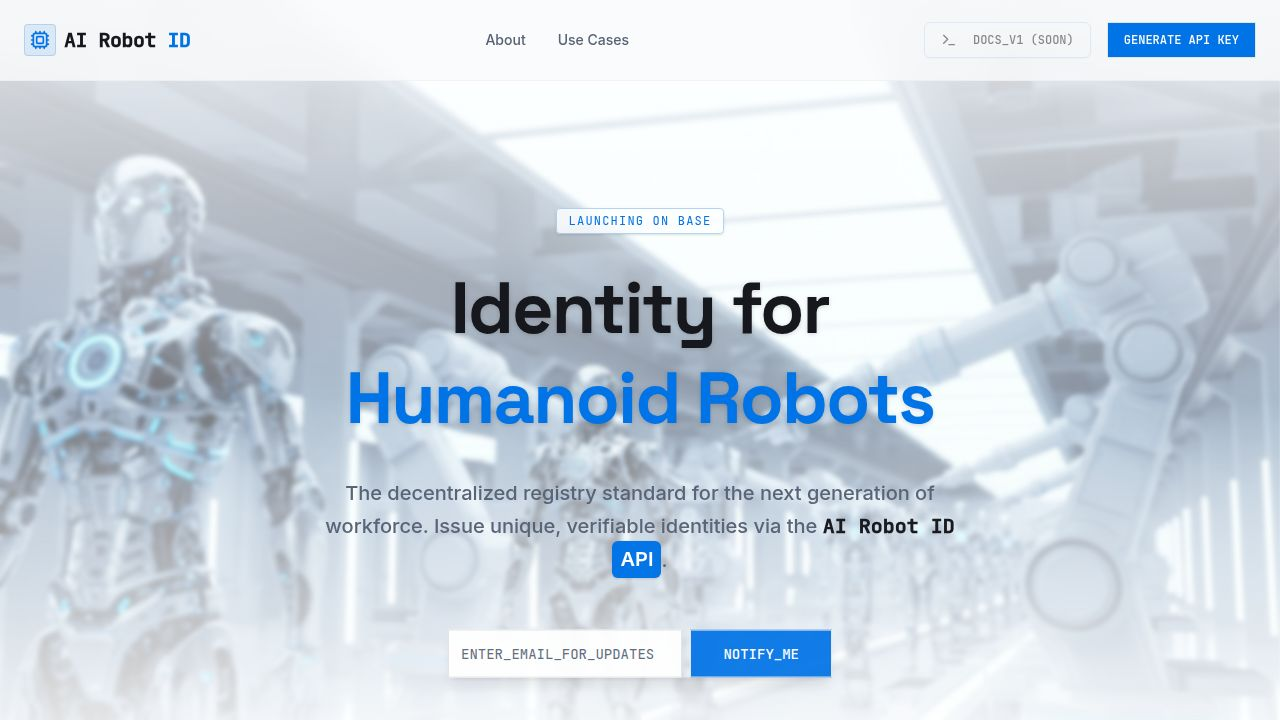
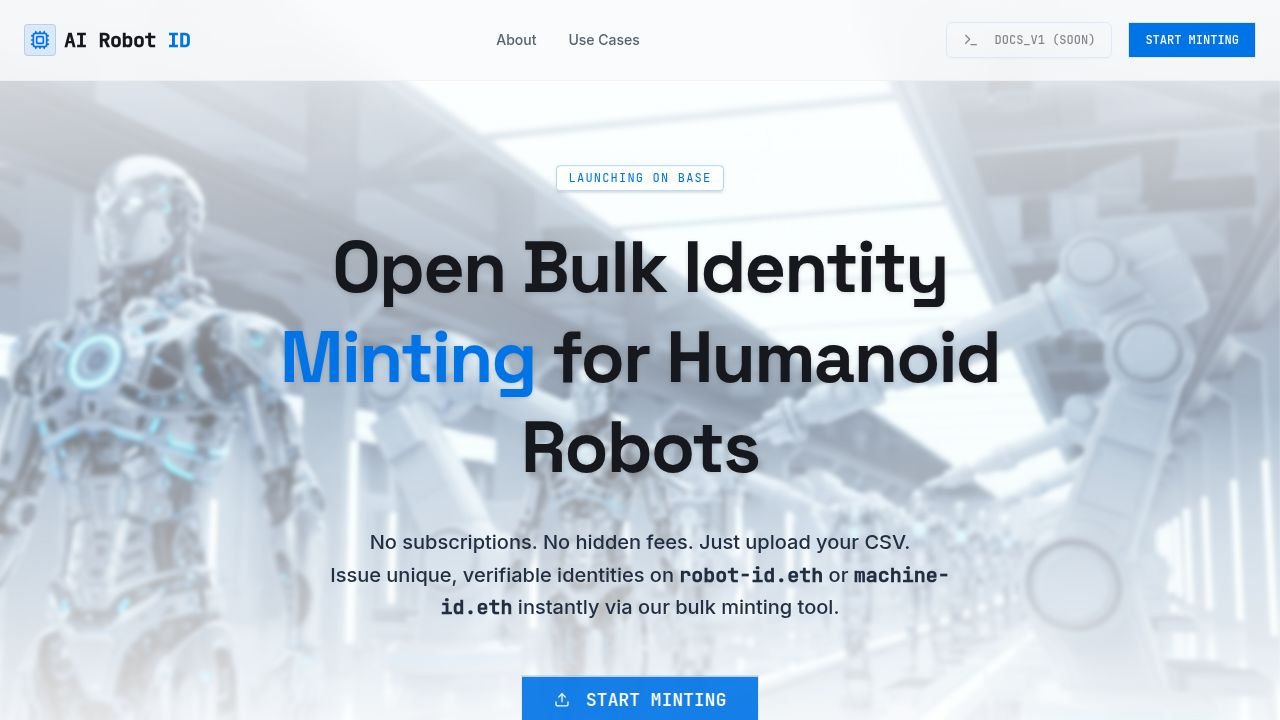
Published your App
Replit-Commit-Author: Deployment
Replit-Commit-Session-Id: 85a674c6-3517-4780-aa80-2c445b0ae4fa
Replit-Commit-Checkpoint-Type: full_checkpoint
Replit-Commit-Event-Id: 91f0d460-d7e7-4d9c-b1e6-afb42154166d
Replit-Commit-Screenshot-Url: https://storage.googleapis.com/screenshot-production-us-central1/c4c9e3a7-0379-40d7-9a9a-784080d9a74f/85a674c6-3517-4780-aa80-2c445b0ae4fa/3WuXgTn
Replit-Commit-Deployment-Build-Id: 29f06fce-683c-4a2b-831b-417356517342
Replit-Helium-Checkpoint-Created: true

Changed region(s): [[0.2188, 0.2139, 0.7812, 1.0], [0.75, 0.0306, 0.9688, 0.0917], [0.375, 0.0306, 0.5, 0.0611]]

diff --git a/client/src/components/MintCalculator.tsx b/client/src/components/MintCalculator.tsx
@@ -1,0 +1,134 @@
+import { useState, useEffect } from "react";
+import { Card, CardContent, CardHeader, CardTitle } from "@/components/ui/card";
+import { Input } from "@/components/ui/input";
+import { Slider } from "@/components/ui/slider";
+import { Calculator, DollarSign, Zap } from "lucide-react";
+
+const pricingTiers = [
+  { min: 1,      max: 99,      priceUSD: 0.49 },
+  { min: 100,    max: 999,     priceUSD: 0.19 },
+  { min: 1_000,  max: 9_999,   priceUSD: 0.079 },
+  { min: 10_000, max: 49_999,  priceUSD: 0.049 },
+  { min: 50_000, max: 249_999, priceUSD: 0.029 },
+  { min: 250_000, max: 1_000_000_000, priceUSD: 0.019 }
+];
+
+export function MintCalculator() {
+  const [quantity, setQuantity] = useState<number>(1000);
+  const [unitPrice, setUnitPrice] = useState<number>(0);
+  const [totalPrice, setTotalPrice] = useState<number>(0);
+
+  useEffect(() => {
+    // Find the tier that matches the current quantity
+    const tier = pricingTiers.find(t => quantity >= t.min && quantity <= t.max) || pricingTiers[pricingTiers.length - 1];
+    setUnitPrice(tier.priceUSD);
+    setTotalPrice(quantity * tier.priceUSD);
+  }, [quantity]);
+
+  const handleInputChange = (e: React.ChangeEvent<HTMLInputElement>) => {
+    const val = parseInt(e.target.value.replace(/,/g, ''));
+    if (!isNaN(val)) {
+      setQuantity(Math.min(val, 1000000000));
+    } else if (e.target.value === '') {
+      setQuantity(0);
+    }
+  };
+
+  const handleSliderChange = (value: number[]) => {
+    setQuantity(value[0]);
+  };
+
+  // Formatting helper
+  const formatCurrency = (val: number) => {
+    return new Intl.NumberFormat('en-US', { style: 'currency', currency: 'USD' }).format(val);
+  };
+
+  return (
+    <Card className="w-full max-w-4xl mx-auto border-border shadow-xl bg-white overflow-hidden">
+      <CardHeader className="bg-gray-50 border-b border-border pb-8">
+        <div className="flex items-center gap-3 mb-2">
+          <div className="p-2 bg-primary/10 rounded-lg">
+            <Calculator className="w-6 h-6 text-primary" />
+          </div>
+          <CardTitle className="font-display text-2xl">Minting Cost Calculator</CardTitle>
+        </div>
+        <p className="text-muted-foreground text-sm">
+          Estimate the cost of issuing identities for your robot fleet.
+        </p>
+      </CardHeader>
+      <CardContent className="p-8 grid md:grid-cols-2 gap-12">
+        
+        {/* Input Section */}
+        <div className="space-y-8">
+          <div className="space-y-4">
+            <label className="text-sm font-medium font-mono uppercase tracking-wider text-muted-foreground">
+              Fleet Size (Units)
+            </label>
+            <div className="relative">
+              <Input 
+                type="text" 
+                value={quantity.toLocaleString()} 
+                onChange={handleInputChange}
+                className="text-2xl font-display font-bold py-6 pl-4 pr-12 border-border focus:border-primary focus:ring-primary"
+              />
+              <div className="absolute right-4 top-1/2 -translate-y-1/2 text-muted-foreground font-mono text-xs">
+                UNITS
+              </div>
+            </div>
+            <Slider 
+              value={[quantity]} 
+              min={1} 
+              max={100000} 
+              step={10} 
+              onValueChange={handleSliderChange}
+              className="py-4"
+            />
+            <div className="flex justify-between text-xs text-muted-foreground font-mono">
+              <span>1</span>
+              <span>100k+</span>
+            </div>
+          </div>
+
+          <div className="bg-blue-50 border border-blue-100 rounded-lg p-4 flex items-start gap-3">
+            <Zap className="w-5 h-5 text-primary shrink-0 mt-0.5" />
+            <p className="text-sm text-blue-900">
+              <span className="font-bold">Pro Tip:</span> Minting in bulk batches of 10,000+ unlocks our efficiency tier at <span className="font-bold">$0.049/unit</span>.
+            </p>
+          </div>
+        </div>
+
+        {/* Output Section */}
+        <div className="bg-slate-900 rounded-xl p-8 text-white flex flex-col justify-between relative overflow-hidden">
+          <div className="absolute top-0 right-0 p-32 bg-primary/20 blur-3xl rounded-full -translate-y-1/2 translate-x-1/2" />
+          
+          <div className="relative z-10 space-y-2">
+            <p className="text-slate-400 font-mono text-sm uppercase tracking-wider">Estimated Total</p>
+            <div className="flex items-baseline gap-1">
+              <span className="text-5xl font-display font-bold tracking-tight">
+                {formatCurrency(totalPrice)}
+              </span>
+            </div>
+          </div>
+
+          <div className="relative z-10 space-y-6 mt-8">
+            <div className="flex justify-between items-center border-b border-white/10 pb-4">
+              <span className="text-slate-400 text-sm">Unit Price Applied</span>
+              <div className="flex items-center gap-2">
+                <span className="px-2 py-1 bg-primary/20 text-primary-foreground text-xs font-bold rounded">
+                  TIER ACTIVE
+                </span>
+                <span className="font-mono font-bold text-xl">${unitPrice}</span>
+              </div>
+            </div>
+            
+            <div className="flex justify-between items-center">
+              <span className="text-slate-400 text-sm">Gas Fees (Base)</span>
+              <span className="text-green-400 font-mono text-sm">~$0.00 (Sponsored)</span>
+            </div>
+          </div>
+        </div>
+
+      </CardContent>
+    </Card>
+  );
+}

diff --git a/client/src/pages/Home.tsx b/client/src/pages/Home.tsx
@@ -34,6 +34,8 @@ import {
   TableRow,
 } from "@/components/ui/table";
 
+import { MintCalculator } from "@/components/MintCalculator";
+
 const pricingTiers = [
   { min: 1,      max: 99,      priceUSD: 0.49 },
   { min: 100,    max: 999,     priceUSD: 0.19 },
@@ -227,7 +229,9 @@ export default function Home() {
             </p>
            </div>
 
-           <div className="grid md:grid-cols-2 lg:grid-cols-3 gap-6">
+           <MintCalculator />
+
+           <div className="grid md:grid-cols-2 lg:grid-cols-3 gap-6 pt-12">
              {pricingTiers.map((tier, i) => (
                <Card key={i} className={`border-border transition-all hover:border-primary/50 hover:shadow-lg ${i === 0 ? 'border-primary/50 bg-primary/5' : 'bg-white'}`}>
                  <CardHeader>
@@ -304,7 +308,7 @@ export default function Home() {
               },
               {
                 title: "Capability Schema",
-                desc: "Define permission policies for movement, tasks, and API access.",
+                desc: "Define permission policies for movement, tasks, and system access.",
                 icon: Settings
               },
             ].map((feature, i) => (
